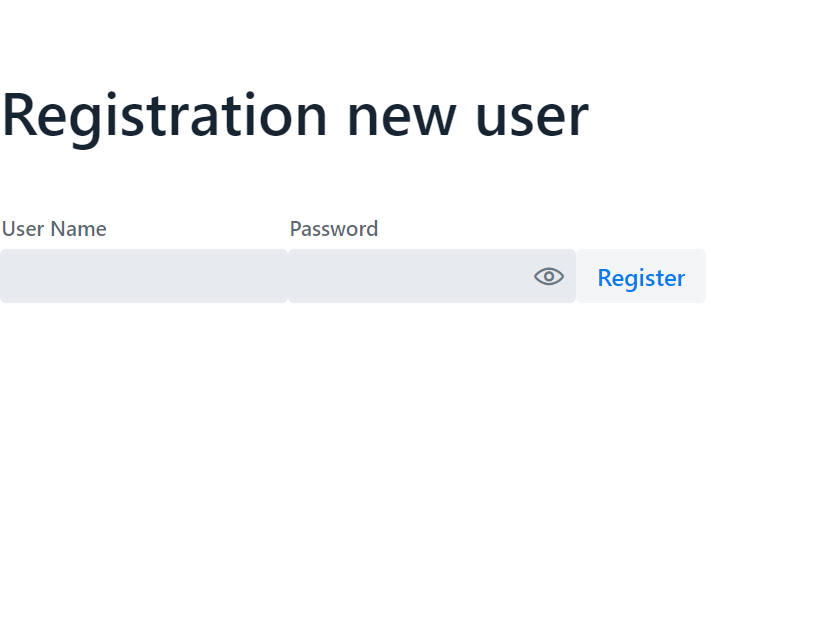
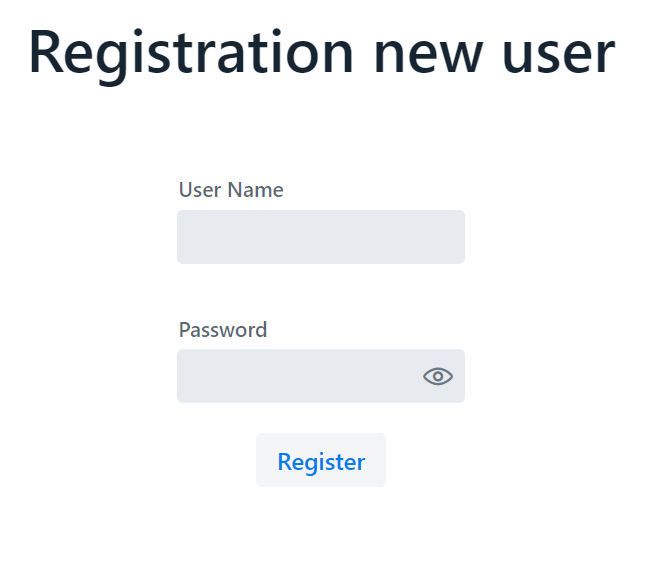
improvment login and registration page view(align centre)

diff --git a/src/main/java/com/maxmayev/application/views/login/LoginView.java b/src/main/java/com/maxmayev/application/views/login/LoginView.java
@@ -6,15 +6,15 @@ import com.vaadin.flow.component.UI;
 import com.vaadin.flow.component.button.Button;
 import com.vaadin.flow.component.dependency.StyleSheet;
 import com.vaadin.flow.component.login.LoginForm;
+import com.vaadin.flow.component.orderedlayout.FlexLayout;
 import com.vaadin.flow.component.orderedlayout.VerticalLayout;
 import com.vaadin.flow.router.PageTitle;
 import com.vaadin.flow.router.Route;
 
 
-@Tag("sa-login-view")
+//@Tag("sa-login-view")
 @Route(value = LoginView.ROUTE)
 @PageTitle("Login")
-@StyleSheet("frontend://src/styles.css")
 public class LoginView extends VerticalLayout {
     public static final String ROUTE = "login";
 
@@ -25,6 +25,7 @@ public class LoginView extends VerticalLayout {
         UI.getCurrent().navigate(RegistrationView.ROUTE);
     });
     public LoginView(){
+        this.setDefaultHorizontalComponentAlignment(FlexLayout.Alignment.CENTER);
         login.setForgotPasswordButtonVisible(false);
         login.setAction("/login"); //
         getElement().appendChild(login.getElement()); //

diff --git a/src/main/java/com/maxmayev/application/views/login/RegistrationView.java b/src/main/java/com/maxmayev/application/views/login/RegistrationView.java
@@ -21,7 +21,7 @@ import com.vaadin.flow.router.Route;
 import org.springframework.beans.factory.annotation.Autowired;
 
 
-@Tag("sa-register-view")
+//@Tag("sa-register-view")
 @Route(value = RegistrationView.ROUTE)
 @PageTitle("Registration")
 public class RegistrationView extends VerticalLayout {
@@ -34,12 +34,12 @@ public class RegistrationView extends VerticalLayout {
     private TextField username = new TextField("User Name");
     private PasswordField password = new PasswordField("Password");
 
-    @Autowired
     public RegistrationView(RegistrationService service) {
         this.service = service;
         // Build the layout
         H1 heading = new H1("Registration new user");
         Button submit = new Button("Register");
+        setDefaultHorizontalComponentAlignment(FlexLayout.Alignment.CENTER);
         add(
                 heading,
                 username,
